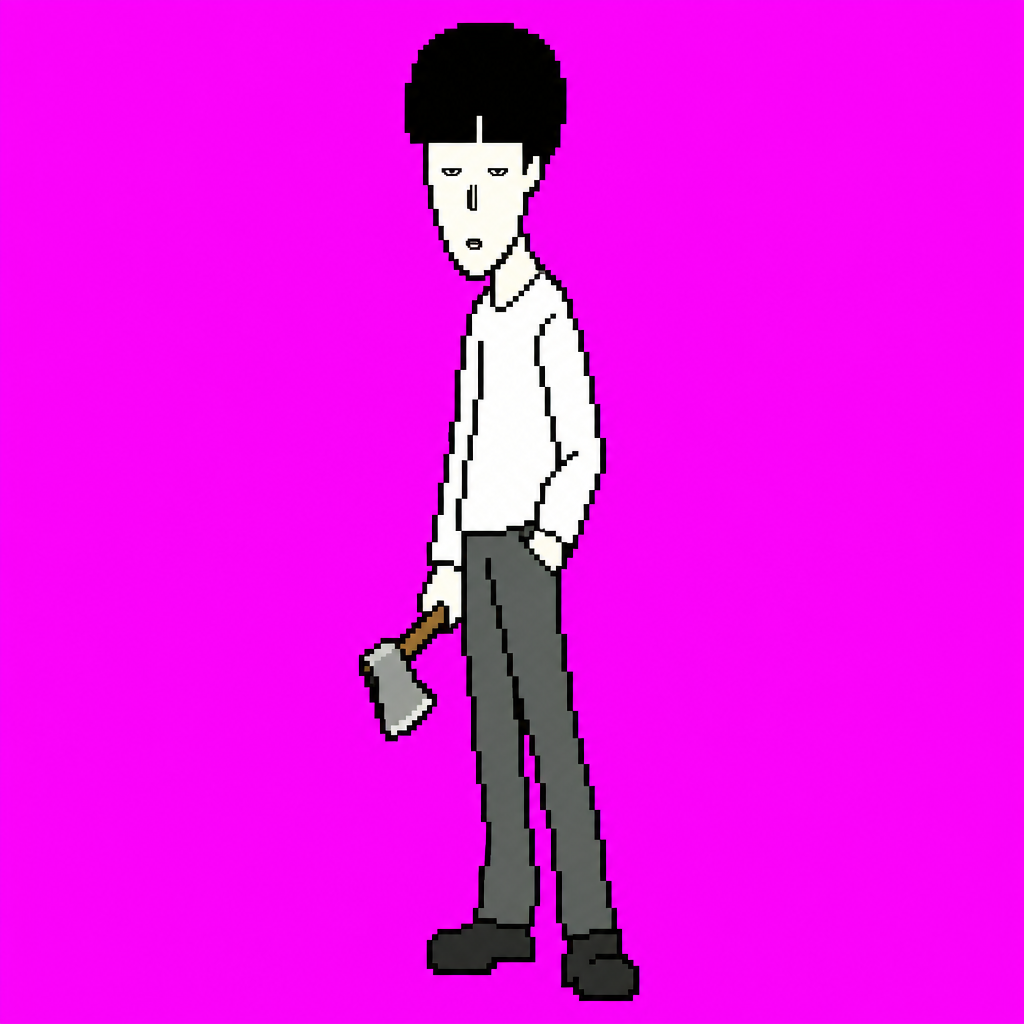
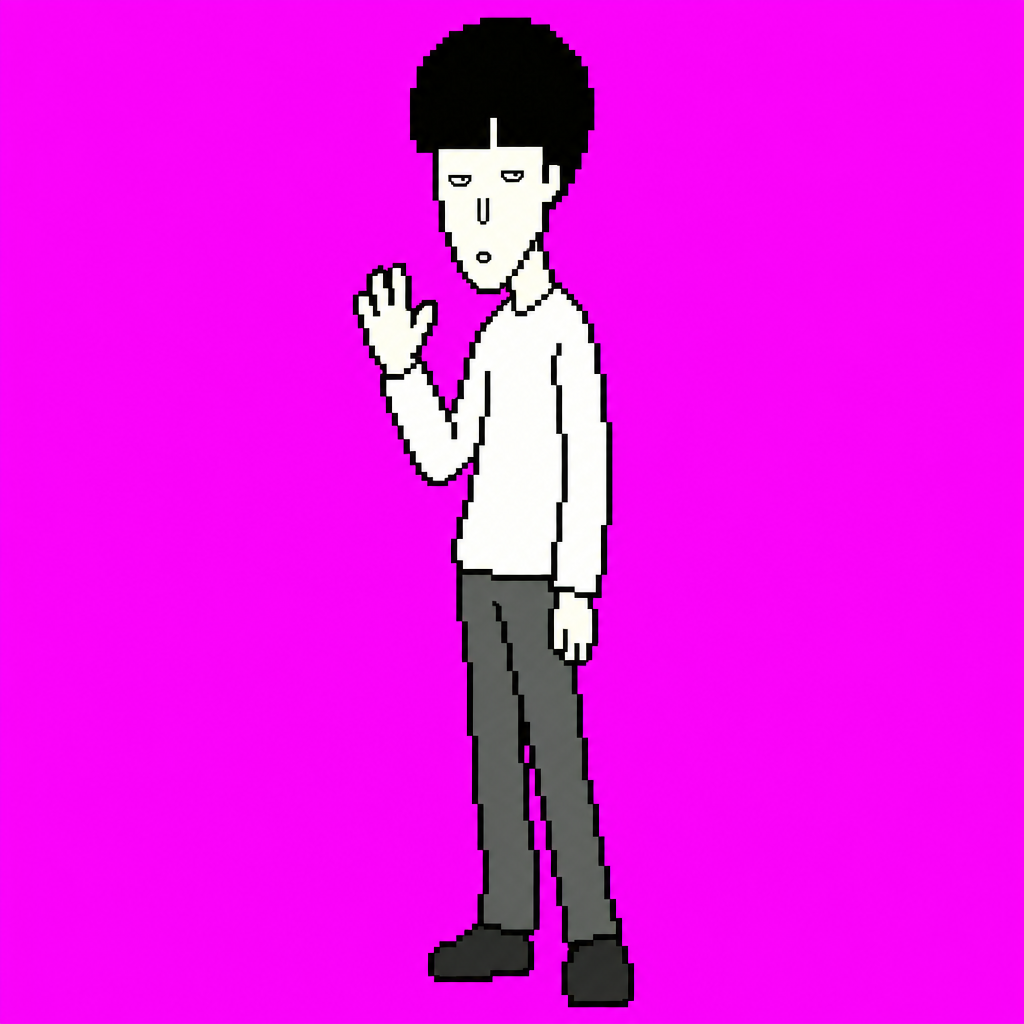
fix(art): BUILD271 도현 전투 그림 — 손도끼 없이 한 손만 들고 인사하듯(사용자 정정 “걍 손하나 들고있다고 / 안녕하듯”)
gpt-image 재생성(assets/source/sakura5-v1/dohyun-battle.prompt.txt), pivot [21,150], 등장 문구 정정, 문서·README 반영.
검사: tests/playtest/enemy.mjs dohyun --pattern=1 통과, pre-commit quick check.

diff --git a/src/data/enemies.js b/src/data/enemies.js
@@ -143,7 +143,7 @@ export const ENEMIES = {
     lines: { appear: '* 배찌가 나타났다!', idle: ['* 배찌가 고글을 반짝인다.', '* 배찌가 리본을 만진다.'], speak: ['물폭탄!', '자석!', '물파리!'], die: '* 배찌가 쓰러졌다.' },
   },
   // 도미조림·도현(BUILD271 사용자 브리핑 2026-09-20 벚꽃 숲 5 공터 “얼린홍어를 던지는것, 횃불을 던지는것, 마른 도현이가 위에서 살랑살랑 떨어지는것, 카톡 텍스트 던지는 패턴 … 각각 체력 50씩”):
-  //   전투 그림은 gpt-image(assets/source/sakura5-v1) — 도미조림은 오른손에 꼬리 잡은 얼린 홍어·왼손 횃불, 도현은 손도끼 하나. 도현은 “양옆으로 살랑살랑 춤추는 느낌”이라 idle 좌우 흔들림을 크게.
+  //   전투 그림은 gpt-image(assets/source/sakura5-v1) — 도미조림은 오른손에 꼬리 잡은 얼린 홍어·왼손 횃불, 도현은 빈손으로 한 손만 들고(안녕하듯, 사용자 “걍 손하나 들고있다고”). 도현은 “양옆으로 살랑살랑 춤추는 느낌”이라 idle 좌우 흔들림을 크게.
   //   체력 50(원문). 패턴 src/battle/sakura5-patterns.js. 피해 13·돈 45 는 미지정(잠정, 다오·배찌 12/40 다음 구간). 말풍선 대사는 미지정이라 비움(“...”), 잡담은 나레이션체.
   domijorim: {
     name: '도미조림', hp: 50, damage: 13, money: 45, voice: 'domijorim',
@@ -153,10 +153,10 @@ export const ENEMIES = {
   },
   dohyun: {
     name: '도현', hp: 50, damage: 13, money: 45, voice: 'dohyun',
-    image: 'assets/enemies/dohyun-battle.png', pivot: [21, 148], scale: 0.9, dx: 40, dy: 0, idle: { swayX: 12, swayY: 1, period: 1.5 },   // 양옆으로 살랑살랑 춤추듯
+    image: 'assets/enemies/dohyun-battle.png', pivot: [21, 150], scale: 0.9, dx: 40, dy: 0, idle: { swayX: 12, swayY: 1, period: 1.5 },   // 양옆으로 살랑살랑 춤추듯
     projectiles: { dohyun: 'assets/enemies/dohyun-battle.png' },
     patterns: [{ type: 'dohyun_fall' }, { type: 'kakao_text' }],
-    lines: { appear: '* 도현이 손도끼를 들고 살랑살랑 다가왔다.', idle: ['* 도현이 양옆으로 살랑살랑 춤춘다.', '* 도현이 가순이들 눈치를 본다.'], speak: [], die: '* 도현이 쓰러졌다.' },
+    lines: { appear: '* 도현이 한 손을 들고 살랑살랑 다가왔다.', idle: ['* 도현이 양옆으로 살랑살랑 춤춘다.', '* 도현이 가순이들 눈치를 본다.'], speak: [], die: '* 도현이 쓰러졌다.' },
   },
   munkorita: {
     name: '문코리타', hp: 16, damage: 9, money: 18, voice: 'cat',

diff --git a/docs/STATE.md b/docs/STATE.md
@@ -2,7 +2,7 @@
 
 마지막 갱신: 2026-09-20
 
-**BUILD271 — 벚꽃 숲 5(거대 벚꽃 나무 공터)·도현·도미조림·가순이 4·5·6**(사용자 브리핑 2026-09-20, 원문·구현표 `design/narrative/cutscenes/jjajang_sakura5.md`): 벚꽃 숲 4 아랫줄 문 → `jjajang_sakura5`(68×40, `tools/maps/jjajang_sakura5.py`): 도착 자리(15행)에서 아래로 살짝(7칸 ≈ 1초, 되돌아가는 문은 윗줄 끝 — “포탈을 끝으로” 규칙) → 오른쪽 21칸(≈ 3초) → 새 타일 `]` 나무다리(파란 물 `[` 위, 발소리 없음) 20칸(≈ 3초) → 갈림목 트리거: `{bgm:null}` → 카메라 위 타원 공터(중심 54,10)·거대 벚꽃 나무(`assets/props/sakura_giant_tree.png` 335×317, gpt-image, `sortY -1`) 아래 도미조림·가순이 4·5·6·도현 → 도미조림 `hop` + `sfx/domijorim_heumi.mp3` → 원문 대사 여섯(“가순이들” 화자, 초상화 가순이4 잠정) → 카메라 주인공. 오른쪽 길은 공터 방문 전 억빠맨 `위로 먼저 가볼까요?` 로 막고 한 칸 왼쪽(공터 윗길 트리거가 `sakura5_clearing_visited`). 새 캐릭터: 도현(선화 → gpt-image 4×4, fit 0.92 로 길쭉, 목소리 알피스 `snd_txtal` 1.1배), 도미조림(사진 → gpt-image 4×4 + 등에 얼린 홍어, 목소리 = 청소부 거슨 클립 1.35배), 가순이 4·5·6(1·2·3 참조로 옷·머리만). 적군 전투 그림 `assets/enemies/domijorim-battle.png`(홍어+횃불)·`dohyun-battle.png`(손도끼, “손ㄷ” 잠정) — 전투 데이터는 미등록(브리핑 없음). 첫 연출 뒤 브금은 지정 없어 꺼진 채. **윗길 연출**(같은 날 이어진 브리핑): 공터 밑 트리거 → `bgm/telling.mp3`(CvFuMiWEryM) → 일행이 나무 밑까지 올라감(판단) → 카메라 배우 눈높이 `[54,10]` → 도미조림 느낌표·아래 → 원문 대사(카메라 살짝 위 나무 맨 위 → 돌아옴, 일행 모두 느낌표, 가순이들로 카메라 `[55,7]`, 나레이션 셋, 다시 넓게) → “내꺼랑께요 흐미!!!!!!!!!!!!”(점프+흐미) → **전투** 도미조림·도현(체력 50씩, 피해 13·돈 45 잠정, 브금 `bgm/petal_dance.mp3` RsAu3BDaAp8, 배경 sakura): `src/battle/sakura5-patterns.js` — 얼린 홍어(팔락·부메랑)·횃불(포물선 → 바닥 불)·마른 도현 살랑살랑 낙하(전투 그림 실루엣)·카톡 말풍선 “파크가디언 그새끼보다 낫노”(원문만). 도현 idle 좌우 12px(살랑살랑 춤). 전투 뒤 지정 없음(카메라 주인공). QA `jjajang_sakura5`·`_bridge`·`_fork`·`_battle`·`_clearing`. **배포판 수정**: `tools/deploy/package-site.sh` 가 `.mp4/.webm` 을 빼고 있어 Pages 에서 리듬 게임 노래 영상(`assets/video/*.mp4`)이 404 → 확장자 추가(사용자 “리듬게임에 뒤에 영상하고 그런거 안나옴”). 검사 `tests/unit/jjajang-sakura5.test.mjs`, `tests/playtest/jjajang-sakura5.mjs`(34 항목: 살짝 1.2초·오른쪽 2.9초·다리 2.8초, 시트 폴백 아님, 막기·해제). 자산 `assets/source/sakura5-v1/`(README·export.py).
+**BUILD271 — 벚꽃 숲 5(거대 벚꽃 나무 공터)·도현·도미조림·가순이 4·5·6**(사용자 브리핑 2026-09-20, 원문·구현표 `design/narrative/cutscenes/jjajang_sakura5.md`): 벚꽃 숲 4 아랫줄 문 → `jjajang_sakura5`(68×40, `tools/maps/jjajang_sakura5.py`): 도착 자리(15행)에서 아래로 살짝(7칸 ≈ 1초, 되돌아가는 문은 윗줄 끝 — “포탈을 끝으로” 규칙) → 오른쪽 21칸(≈ 3초) → 새 타일 `]` 나무다리(파란 물 `[` 위, 발소리 없음) 20칸(≈ 3초) → 갈림목 트리거: `{bgm:null}` → 카메라 위 타원 공터(중심 54,10)·거대 벚꽃 나무(`assets/props/sakura_giant_tree.png` 335×317, gpt-image, `sortY -1`) 아래 도미조림·가순이 4·5·6·도현 → 도미조림 `hop` + `sfx/domijorim_heumi.mp3` → 원문 대사 여섯(“가순이들” 화자, 초상화 가순이4 잠정) → 카메라 주인공. 오른쪽 길은 공터 방문 전 억빠맨 `위로 먼저 가볼까요?` 로 막고 한 칸 왼쪽(공터 윗길 트리거가 `sakura5_clearing_visited`). 새 캐릭터: 도현(선화 → gpt-image 4×4, fit 0.92 로 길쭉, 목소리 알피스 `snd_txtal` 1.1배), 도미조림(사진 → gpt-image 4×4 + 등에 얼린 홍어, 목소리 = 청소부 거슨 클립 1.35배), 가순이 4·5·6(1·2·3 참조로 옷·머리만). 적군 전투 그림 `assets/enemies/domijorim-battle.png`(홍어+횃불)·`dohyun-battle.png`(빈손 한 손 들기 — 사용자 정정 “걍 손하나 들고있다고 / 안녕하듯”) — 전투 데이터는 미등록(브리핑 없음). 첫 연출 뒤 브금은 지정 없어 꺼진 채. **윗길 연출**(같은 날 이어진 브리핑): 공터 밑 트리거 → `bgm/telling.mp3`(CvFuMiWEryM) → 일행이 나무 밑까지 올라감(판단) → 카메라 배우 눈높이 `[54,10]` → 도미조림 느낌표·아래 → 원문 대사(카메라 살짝 위 나무 맨 위 → 돌아옴, 일행 모두 느낌표, 가순이들로 카메라 `[55,7]`, 나레이션 셋, 다시 넓게) → “내꺼랑께요 흐미!!!!!!!!!!!!”(점프+흐미) → **전투** 도미조림·도현(체력 50씩, 피해 13·돈 45 잠정, 브금 `bgm/petal_dance.mp3` RsAu3BDaAp8, 배경 sakura): `src/battle/sakura5-patterns.js` — 얼린 홍어(팔락·부메랑)·횃불(포물선 → 바닥 불)·마른 도현 살랑살랑 낙하(전투 그림 실루엣)·카톡 말풍선 “파크가디언 그새끼보다 낫노”(원문만). 도현 idle 좌우 12px(살랑살랑 춤). 전투 뒤 지정 없음(카메라 주인공). QA `jjajang_sakura5`·`_bridge`·`_fork`·`_battle`·`_clearing`. **배포판 수정**: `tools/deploy/package-site.sh` 가 `.mp4/.webm` 을 빼고 있어 Pages 에서 리듬 게임 노래 영상(`assets/video/*.mp4`)이 404 → 확장자 추가(사용자 “리듬게임에 뒤에 영상하고 그런거 안나옴”). 검사 `tests/unit/jjajang-sakura5.test.mjs`, `tests/playtest/jjajang-sakura5.mjs`(34 항목: 살짝 1.2초·오른쪽 2.9초·다리 2.8초, 시트 폴백 아님, 막기·해제). 자산 `assets/source/sakura5-v1/`(README·export.py).
 
 **BUILD270 — 벚꽃 전투 배경·다오/배찌 목소리 정정**(사용자 2026-09-20 “나무 위에 캐릭터가 서있는 느낌 / 목소리도 너무 이상하고 너무 커”): 전투 배경 `sakura` 는 나무를 지평선(y 118) 위 멀리 띠에만 작게(0.5~0.6배, 알파 0.32) 두고 발밑은 어두운 분홍 땅 띠. 목소리는 전용 블립 `VOICES.dao`(400Hz 네모파)·`bazzi`(560Hz 삼각파), 음량 0.10(기본 0.256).
 

diff --git a/design/narrative/cutscenes/jjajang_sakura5.md b/design/narrative/cutscenes/jjajang_sakura5.md
@@ -35,15 +35,15 @@
 | 도미조림 스프라이트 | gpt-image 4×4 걷기 시트(사진 참조) + **등에 얼린 홍어**(검처럼 대각선 끈) → `assets/sprites/domijorim.png` | — |
 | 도미조림 목소리 | 청소부 거슨 말하는 소리 클립(`voices/janitor.mp3`)을 1.35배 높여 젊게 → `voices/domijorim.mp3` | `VOICES.domijorim` |
 | 가순이 4·5·6 | 1·2·3 시트를 참조로 옷·머리만 바꿈(4 파랑 옆머리, 5 초록 단발, 6 보라 양갈래) → `assets/sprites/gasuni4~6.png` | — |
-| 적군 전투 스프라이트 | `assets/enemies/domijorim-battle.png`(오른손에 꼬리 잡은 얼린 홍어, 왼손 횃불) · `dohyun-battle.png`(손도끼 하나) — 그림만. 전투(체력·패턴)는 브리핑에 없어 아직 등록하지 않음 | `export.py BATTLE_SCALE` |
+| 적군 전투 스프라이트 | `assets/enemies/domijorim-battle.png`(오른손에 꼬리 잡은 얼린 홍어, 왼손 횃불) · `dohyun-battle.png`(빈손으로 한 손만 들고, 안녕하듯) — 전투 데이터는 아래 이어진 브리핑에서 등록 | `export.py BATTLE_SCALE` |
 
 QA `jjajang_sakura5`(입구), `jjajang_sakura5_bridge`(다리 끝), `jjajang_sakura5_clearing`(연출 뒤 공터). 검사: `tests/unit/jjajang-sakura5.test.mjs`, `tests/playtest/jjajang-sakura5.mjs`.
 
 ## 판단해 둔 것 (지정 없음 — 사용자 확인 필요)
 
 - 연출 뒤 브금은 지정이 없어 꺼진 채 둔다(맵을 나갔다 오면 `sakura` 다시).
-- “가순이들” 초상화는 가순이4. “손ㄷ 하나” 는 **손도끼**로 읽었다(손전등이면 바꾼다).
-- 도미조림 전투 그림은 얼린 홍어를 꼬리 쪽으로 잡고 든 자세. 전투 데이터(체력·패턴·효과음)는 브리핑을 주면 등록한다.
+- “가순이들” 초상화는 가순이4. “손ㄷ 하나” 는 처음 손도끼로 읽었다가 사용자 정정(“걍 손하나 들고있다고 / 안녕하듯”)으로 빈손 한 손 들기로 다시 만들었다.
+- 도미조림 전투 그림은 얼린 홍어를 꼬리 쪽으로 잡고 든 자세.
 - 공터의 다섯은 연출 뒤에도 그 자리에 서 있고 말을 걸어도 대사가 없다(지정 없음).
 
 ## 이어진 브리핑 (원문, 같은 날) — 윗길 연출·전투
@@ -58,6 +58,7 @@ QA `jjajang_sakura5`(입구), `jjajang_sakura5_bridge`(다리 끝), `jjajang_sak
 > (이러고 전투시작) 전투브금은 이걸로 https://www.youtube.com/watch?v=RsAu3BDaAp8
 > 그리고 얼린홍어를 던지는것, 횃불을 던지는것, 그리고 마른 도현이가 위에서 살랑살랑 떨어지는것, 그리고 카톡같은거 텍스트로 파크가디언 그새끼보다 낫노 이런 텍스트 던지는 패턴해서 일단 만들어주고 각각 체력 50씩 해줘
 > 도현이는 약간 양옆으로 살랑 살랑 춤추는 느낌의 전투모션 스프라이트임 / 카메라그리도 잘 신경쓰고 연출이랑 카메라표현등등 고려하고
+> (정정) 걍 손하나 들고있다고 / 안녕하듯
 
 ### 구현 (`jjajang_sakura5_clearing`, `src/battle/sakura5-patterns.js`, `ENEMIES.domijorim/dohyun`)
 

diff --git a/assets/source/sakura5-v1/README.md b/assets/source/sakura5-v1/README.md
@@ -11,5 +11,5 @@
 
 - `domijorim-raw.png` 는 등에 얼린 홍어(검처럼 대각선 끈)를 멘 두 번째 생성(`domijorim-walk2.prompt.txt`). 홍어 없는 첫 시트는 `domijorim-v1-noskate-raw.png`(커밋하지 않음).
 - `domijorim-battle-raw.png`(`domijorim-battle.prompt.txt`, 참조 = 걷기 시트 0.5배): 오른손에 꼬리 잡은 얼린 홍어, 왼손 횃불 → `assets/enemies/domijorim-battle.png`(138×149).
-- `dohyun-battle-raw.png`(`dohyun-battle.prompt.txt`, 참조 = 걷기 시트): 손도끼 하나(“손ㄷ” 을 손도끼로 읽음 — 잠정) → `assets/enemies/dohyun-battle.png`(43×150).
+- `dohyun-battle-raw.png`(`dohyun-battle.prompt.txt`, 참조 = 걷기 시트): 빈손으로 한 손을 들어 인사하듯(사용자 정정 “걍 손하나 들고있다고 / 안녕하듯”) → `assets/enemies/dohyun-battle.png`(43×152). 손도끼로 잘못 읽은 첫 판은 `dohyun-battle-v1-axe-raw.png`(커밋하지 않음).
 - 전투 데이터(체력·패턴)는 브리핑에 없어 `ENEMIES` 에 등록하지 않았다. 축소 배율 `export.py BATTLE_SCALE` 6.5.
